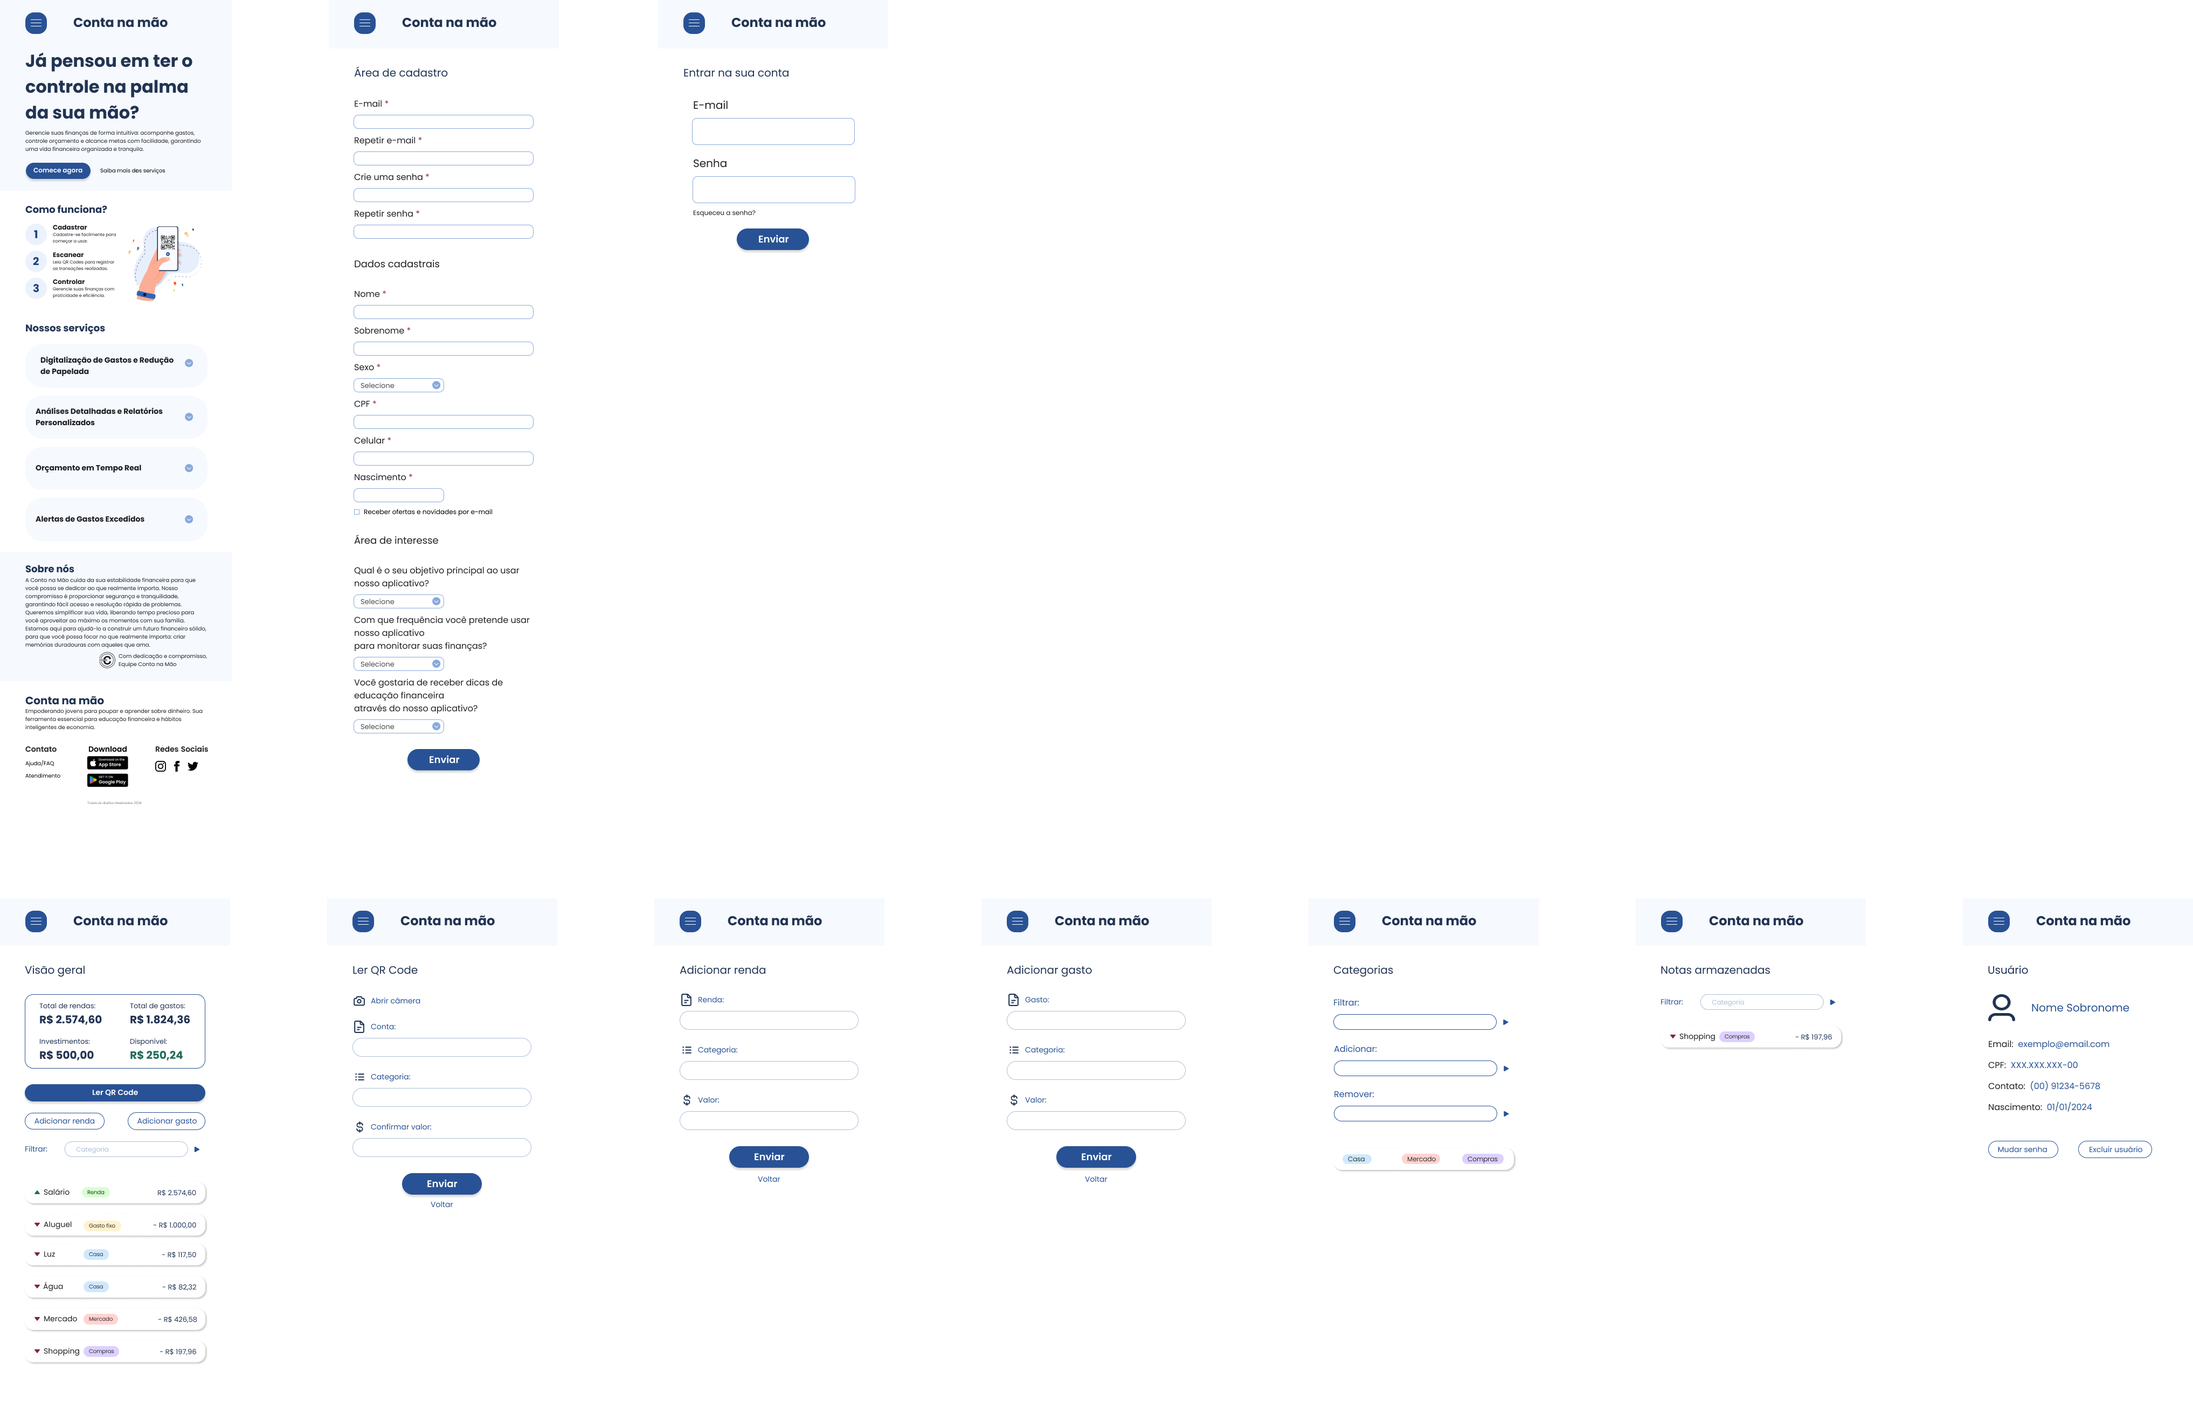
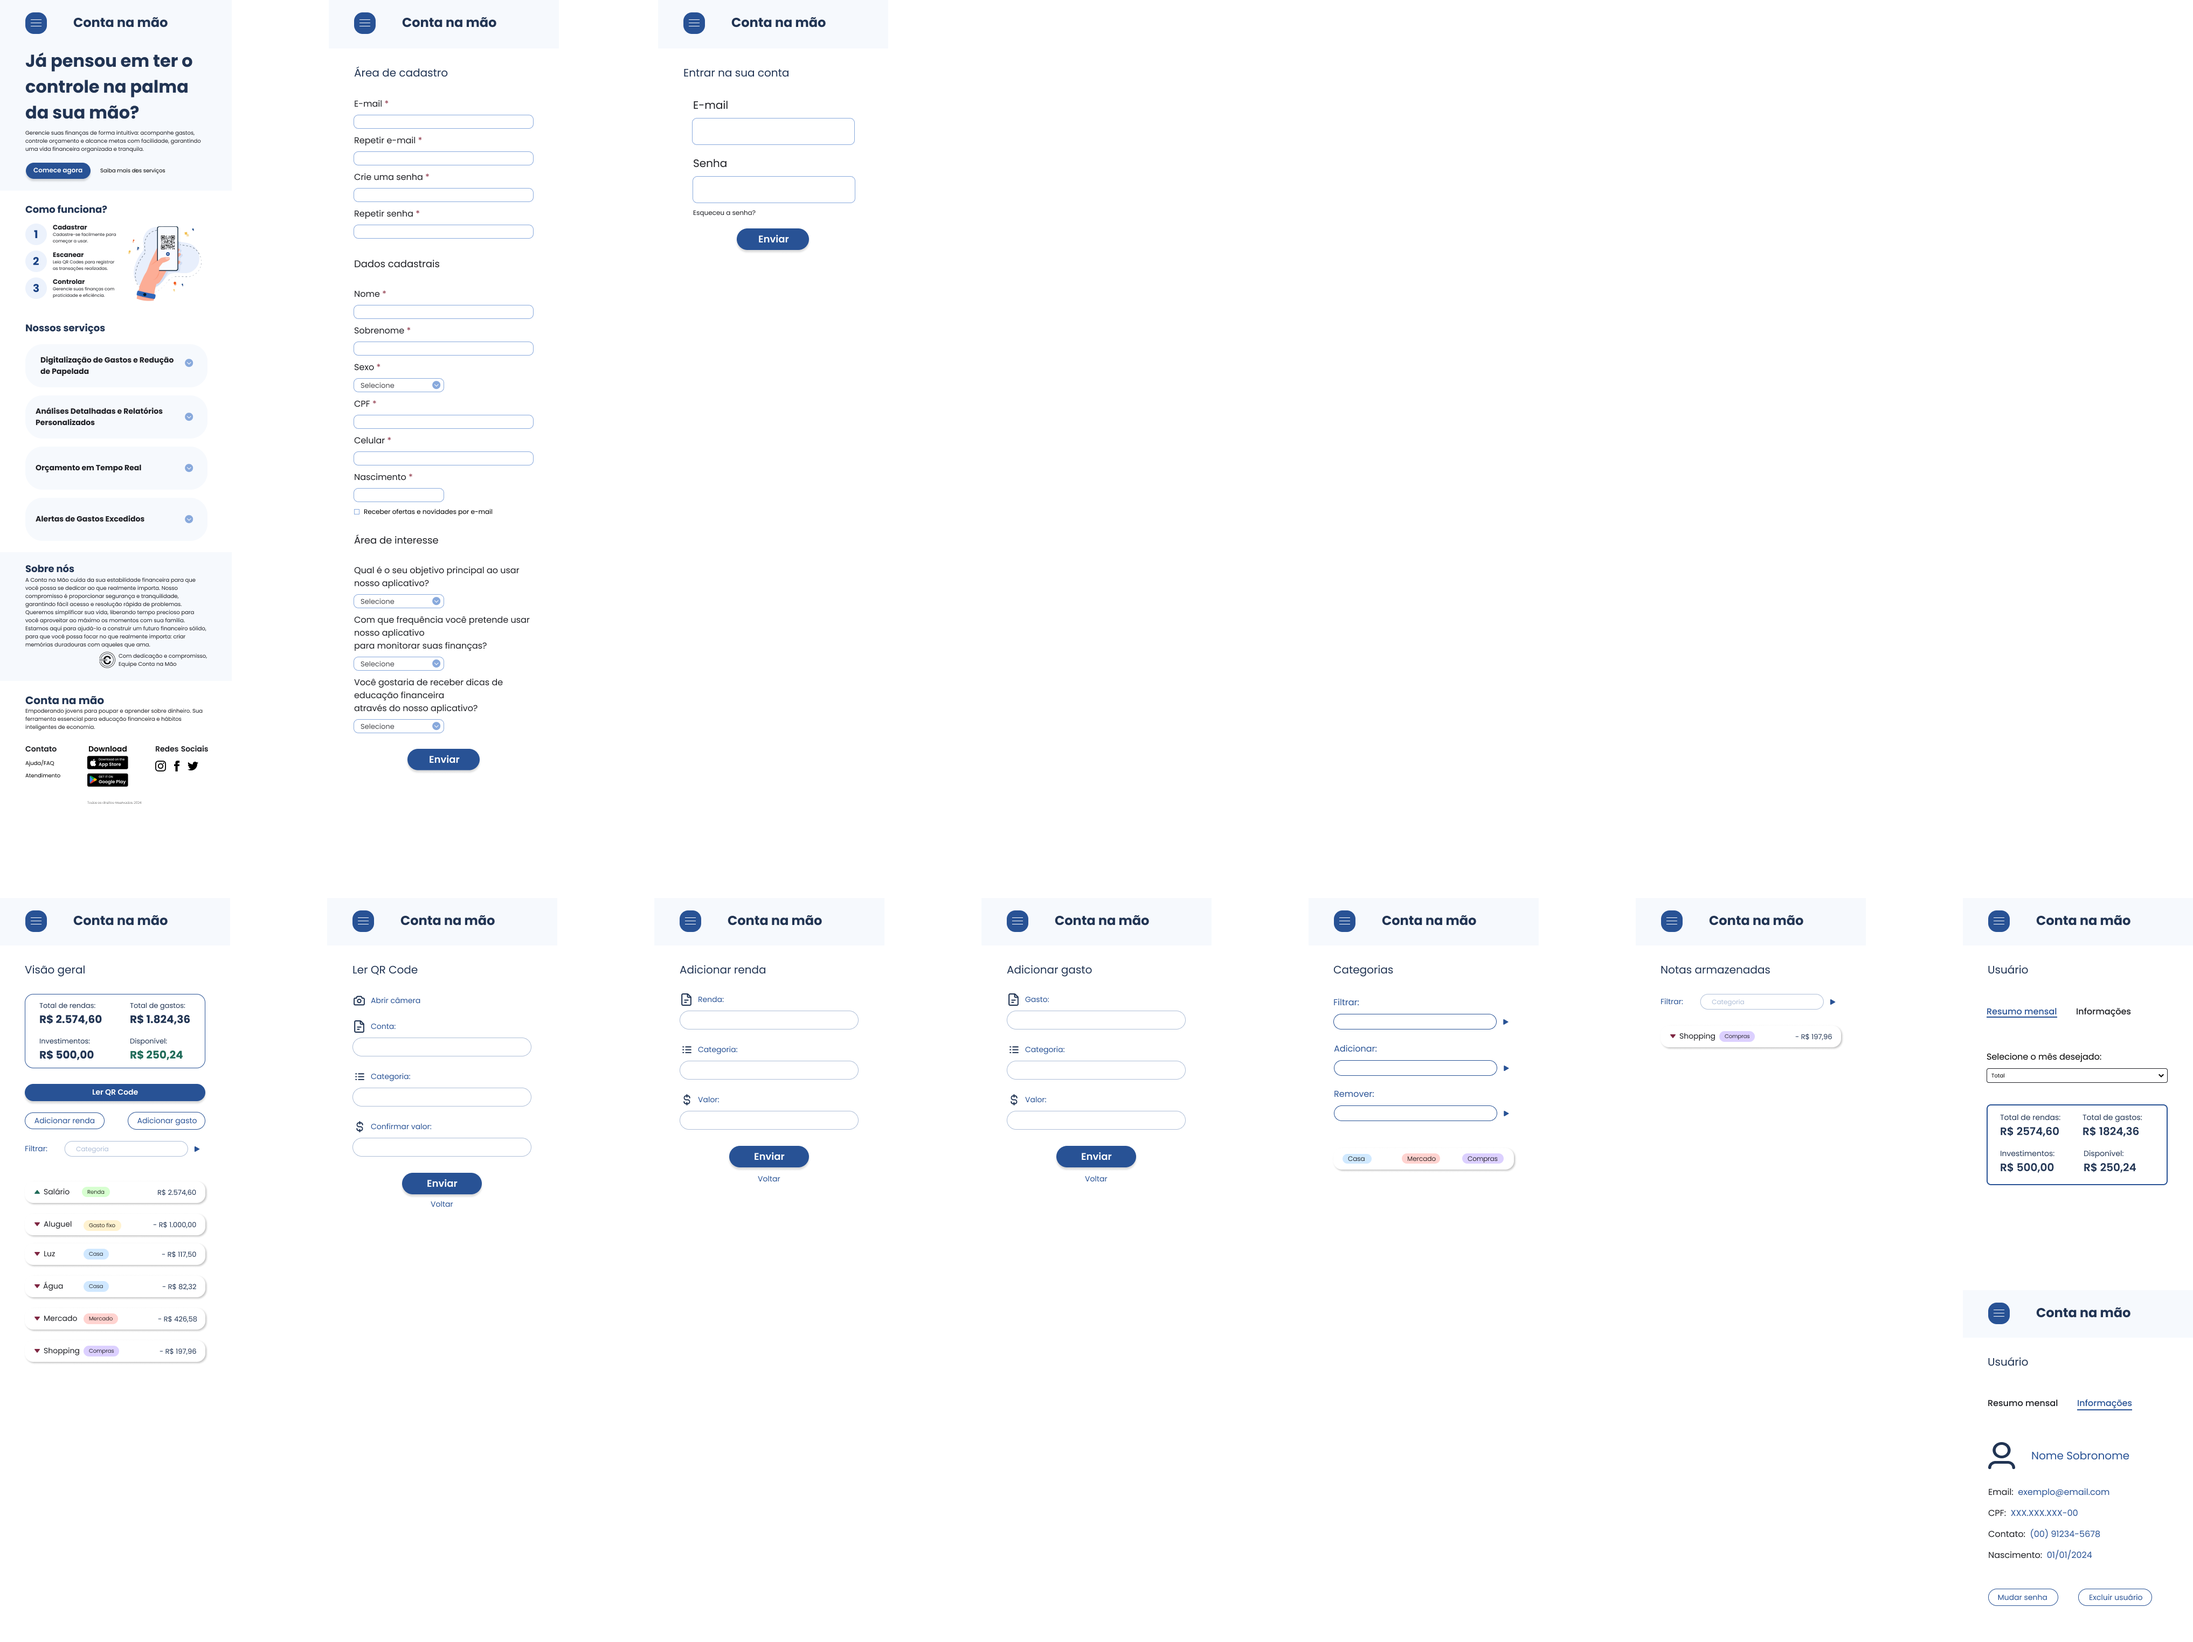
att da página de usuário

diff --git a/documentos/04-Projeto de Interface.md b/documentos/04-Projeto de Interface.md
@@ -121,12 +121,13 @@ A tela de categorias apresenta um breve formulário com filtro, adição e subtr
 
 ### Página de Usuário
 
-A tela de usuário apresenta uma breve informação da conta do usuário logada, possibilitando a troca de senha ou exclusão de usuário.
+A tela de usuário apresenta um breve resumo mensal do usuário e uma breve informação da conta do usuário logada, possibilitando a troca de senha ou exclusão de usuário.
 
-![Protótipo da página de usuário da versão Desktop da Conta na mão](./img/prototypes/usuario.png)
+![Protótipo da página de usuário, na aba de Resumo mensal, da versão Desktop da Conta na mão](./img/prototypes/usuario-resumo-mensal.png)
+![Protótipo da página de usuário, na aba de Informações, da versão Desktop da Conta na mão](./img/prototypes/usuario-informacoes.png)
 
 <figure> 
-    <figcaption>Figura 13 - Protótipo da página usuário da versão Desktop
+    <figcaption>Figura 13.1 e 13.2 - Protótipo da página usuário da versão Desktop
 </figure>
 
 ### Página de Notas
